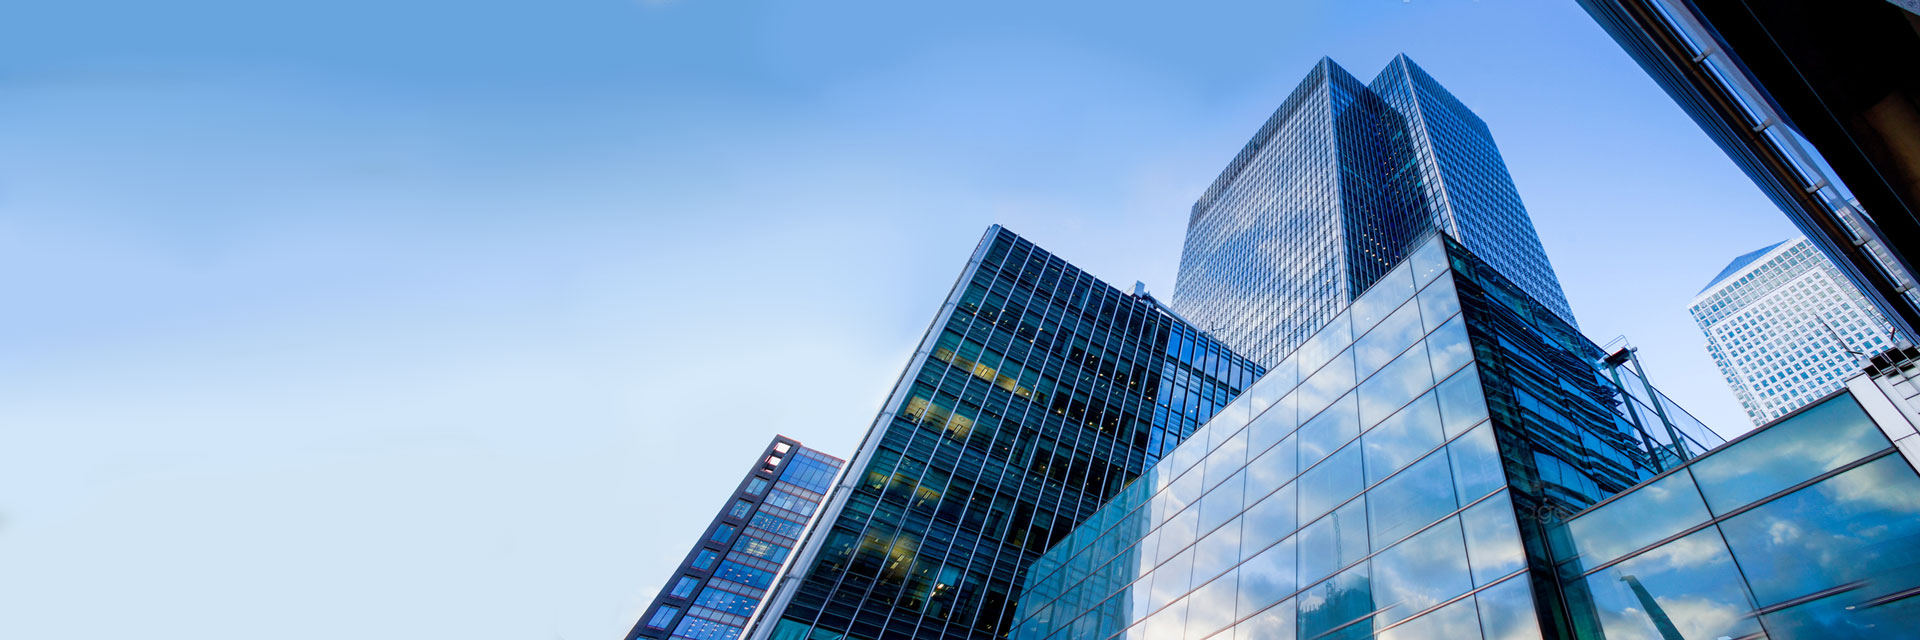
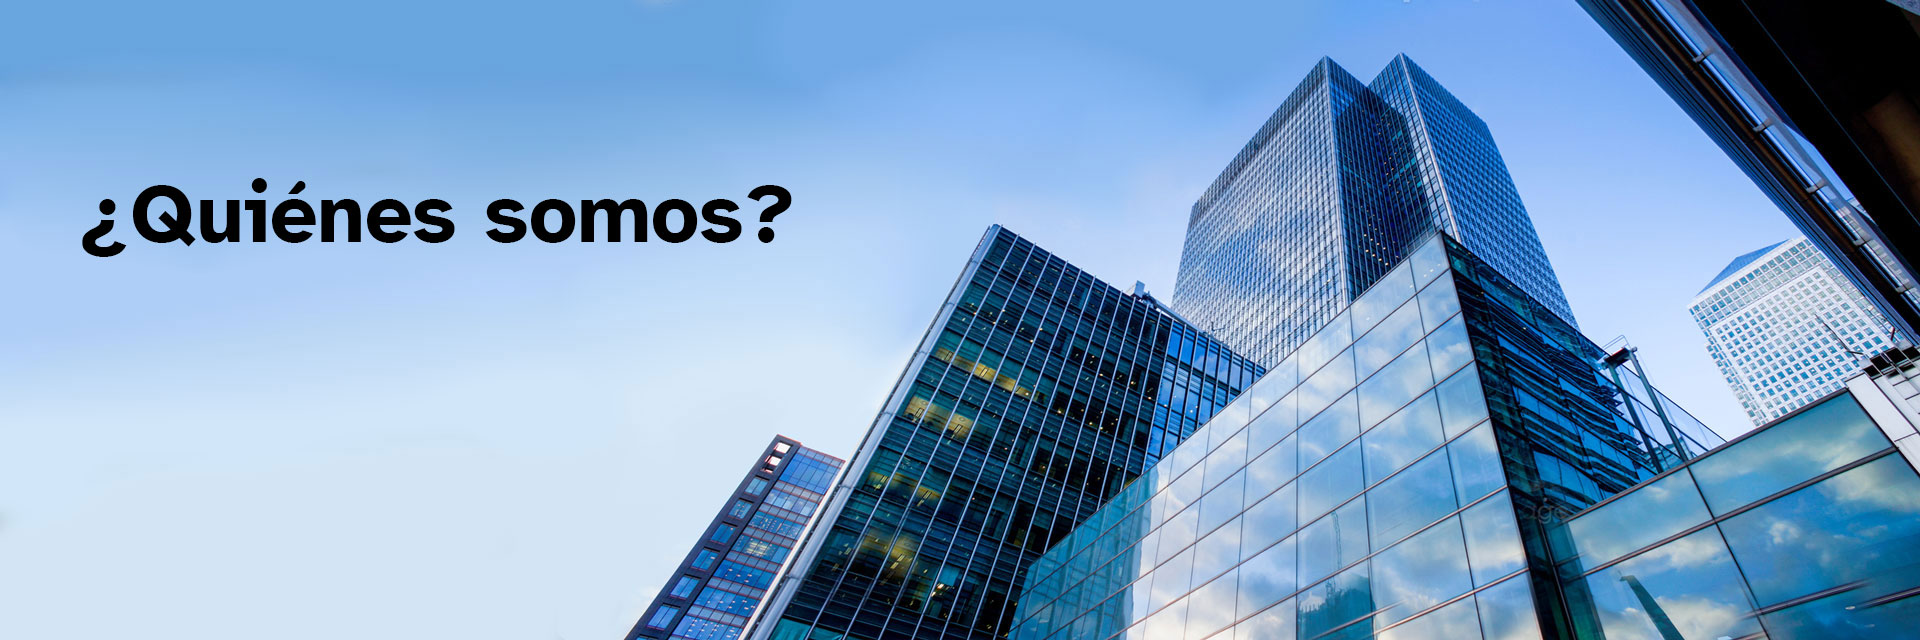
Cambios layout

Changed region(s): [[0.0312, 0.2812, 0.4375, 0.4062]]

diff --git a/pages/quienes-somos.js b/pages/quienes-somos.js
@@ -4,20 +4,22 @@ import Img from "../components/image";
 export default function QuienesSomos() {
   return (
     <Container>
-      <div className="pricing-area area-padding-3">
+
+      <div className="pricing-area area-padding-3" style={{paddingTop:50 }}>
+       <Img s="quienessomos.jpg" a="Ganasafi" />
         <div className="container">
           <div className="row">
             <div className="pricing-content">
               <div className="col-md-8 col-md-offset-2 col-sm-6  col-xs-12">
                 <div className="text-left">
-                  <h2 className="text-light-green">¿Quiénes somos?</h2>
+                  <h1 className="text-light-green hide">¿Quiénes somos?</h1>
 
-                  <Img s="quienessomos.jpg" a="Ganasafi" />
+                 
                   <br /><br />
 
                   
                   <p>
-                   Ganadero Sociedad Administradora de Fondos de Inversión S.A. GanaSafi S.A.<br/><br/>
+                   <strong>Ganadero Sociedad Administradora de Fondos de Inversión S.A. GanaSafi S.A.</strong><br/><br/>
 Es miembro del grupo Financiero Ganadero, nace el año 2020, con la misión de Administrar Fondos de Inversión que coadyuven activamente en el desarrollo económico, financiero y social del país, fomentando el ahorro interno nacional, facilitando económicamente la creación, expansión y desarrollo de empresas nacionales, incentivando las inversiones nacionales y/o extranjeras en el país y cubriendo los requerimientos financieros de los diferentes rubros económicos del país, preservando el patrimonio de los clientes inversionistas, participantes de los Fondos de Inversión administrados. 
                   </p>
                   <hr />

diff --git a/components/counter.js b/components/counter.js
@@ -2,7 +2,7 @@ export default function Counter({ data }) {
     return (
         <>
 
-            <div className="counter-area fix">
+            <div className="counter-area fix bg-cta">
                 <div className="container-full">
                     <div className="row">
                         <div className="col-md-6 col-sm-6 col-xs-12">
@@ -12,19 +12,7 @@ export default function Counter({ data }) {
                             </div>
                         </div>
                         <div className="col-md-6 col-sm-6 col-xs-12">
-                            <div className="fun-content">
-                                <div className="fun_text">
-                                    <i className="flaticon-padlock"></i>
-                                    <span className="">100%</span>
-                                    <h5>Garantía de inversión segura</h5>
-                                </div>
-                                <div className="fun_text">
-                                    <i className="flaticon-team-1"></i>
-                                    <span className="">+1050</span>
-                                    <h5>Usuarios que confían en Ganasafi</h5>
-                                </div>
-
-                            </div>
+                          
                         </div>
                     </div>
                 </div>

diff --git a/components/howto.js b/components/howto.js
@@ -4,14 +4,14 @@ export default function HowTo({ data }) {
     return (
         <>
 
-            <div className="how-to-area area-padding">
+            <div className="how-to-area area-padding ">
                 <h3 className="text-light-green text-center">
                     Empieza a invertir en solo tres pasos.
                 </h3>
                 <br/>
                 <div className="container">
                     <div className="row">
-                        <div className="all-services">
+                        <div className="all-services ">
                             <div className="col-md-4 col-sm-4 col-xs-12">
                                 <div className="well-services first-item">
                                     <div className="well-img">

diff --git a/styles/globals.css b/styles/globals.css
@@ -3026,6 +3026,14 @@ span.email-notes {
     margin-left: 5px;;
 }
 
+
+.bg-cta{
+  background: url(../public/img/cta.jpg);
+  background-size: contain;
+  background-repeat: no-repeat;
+  background-position: center right;
+}
+
 /*----------------------------------------*/
 /*  23.	Animation  CSS
 /*----------------------------------------*/
@@ -3494,7 +3502,7 @@ span.email-notes {
     margin-bottom: 40px;
   }
   .how-to-area {
-    padding: 100px 0px 70px;
+    padding: 100px 10px 70px;
   }
   .brand-content {
     padding: 15px 0px 100px;
